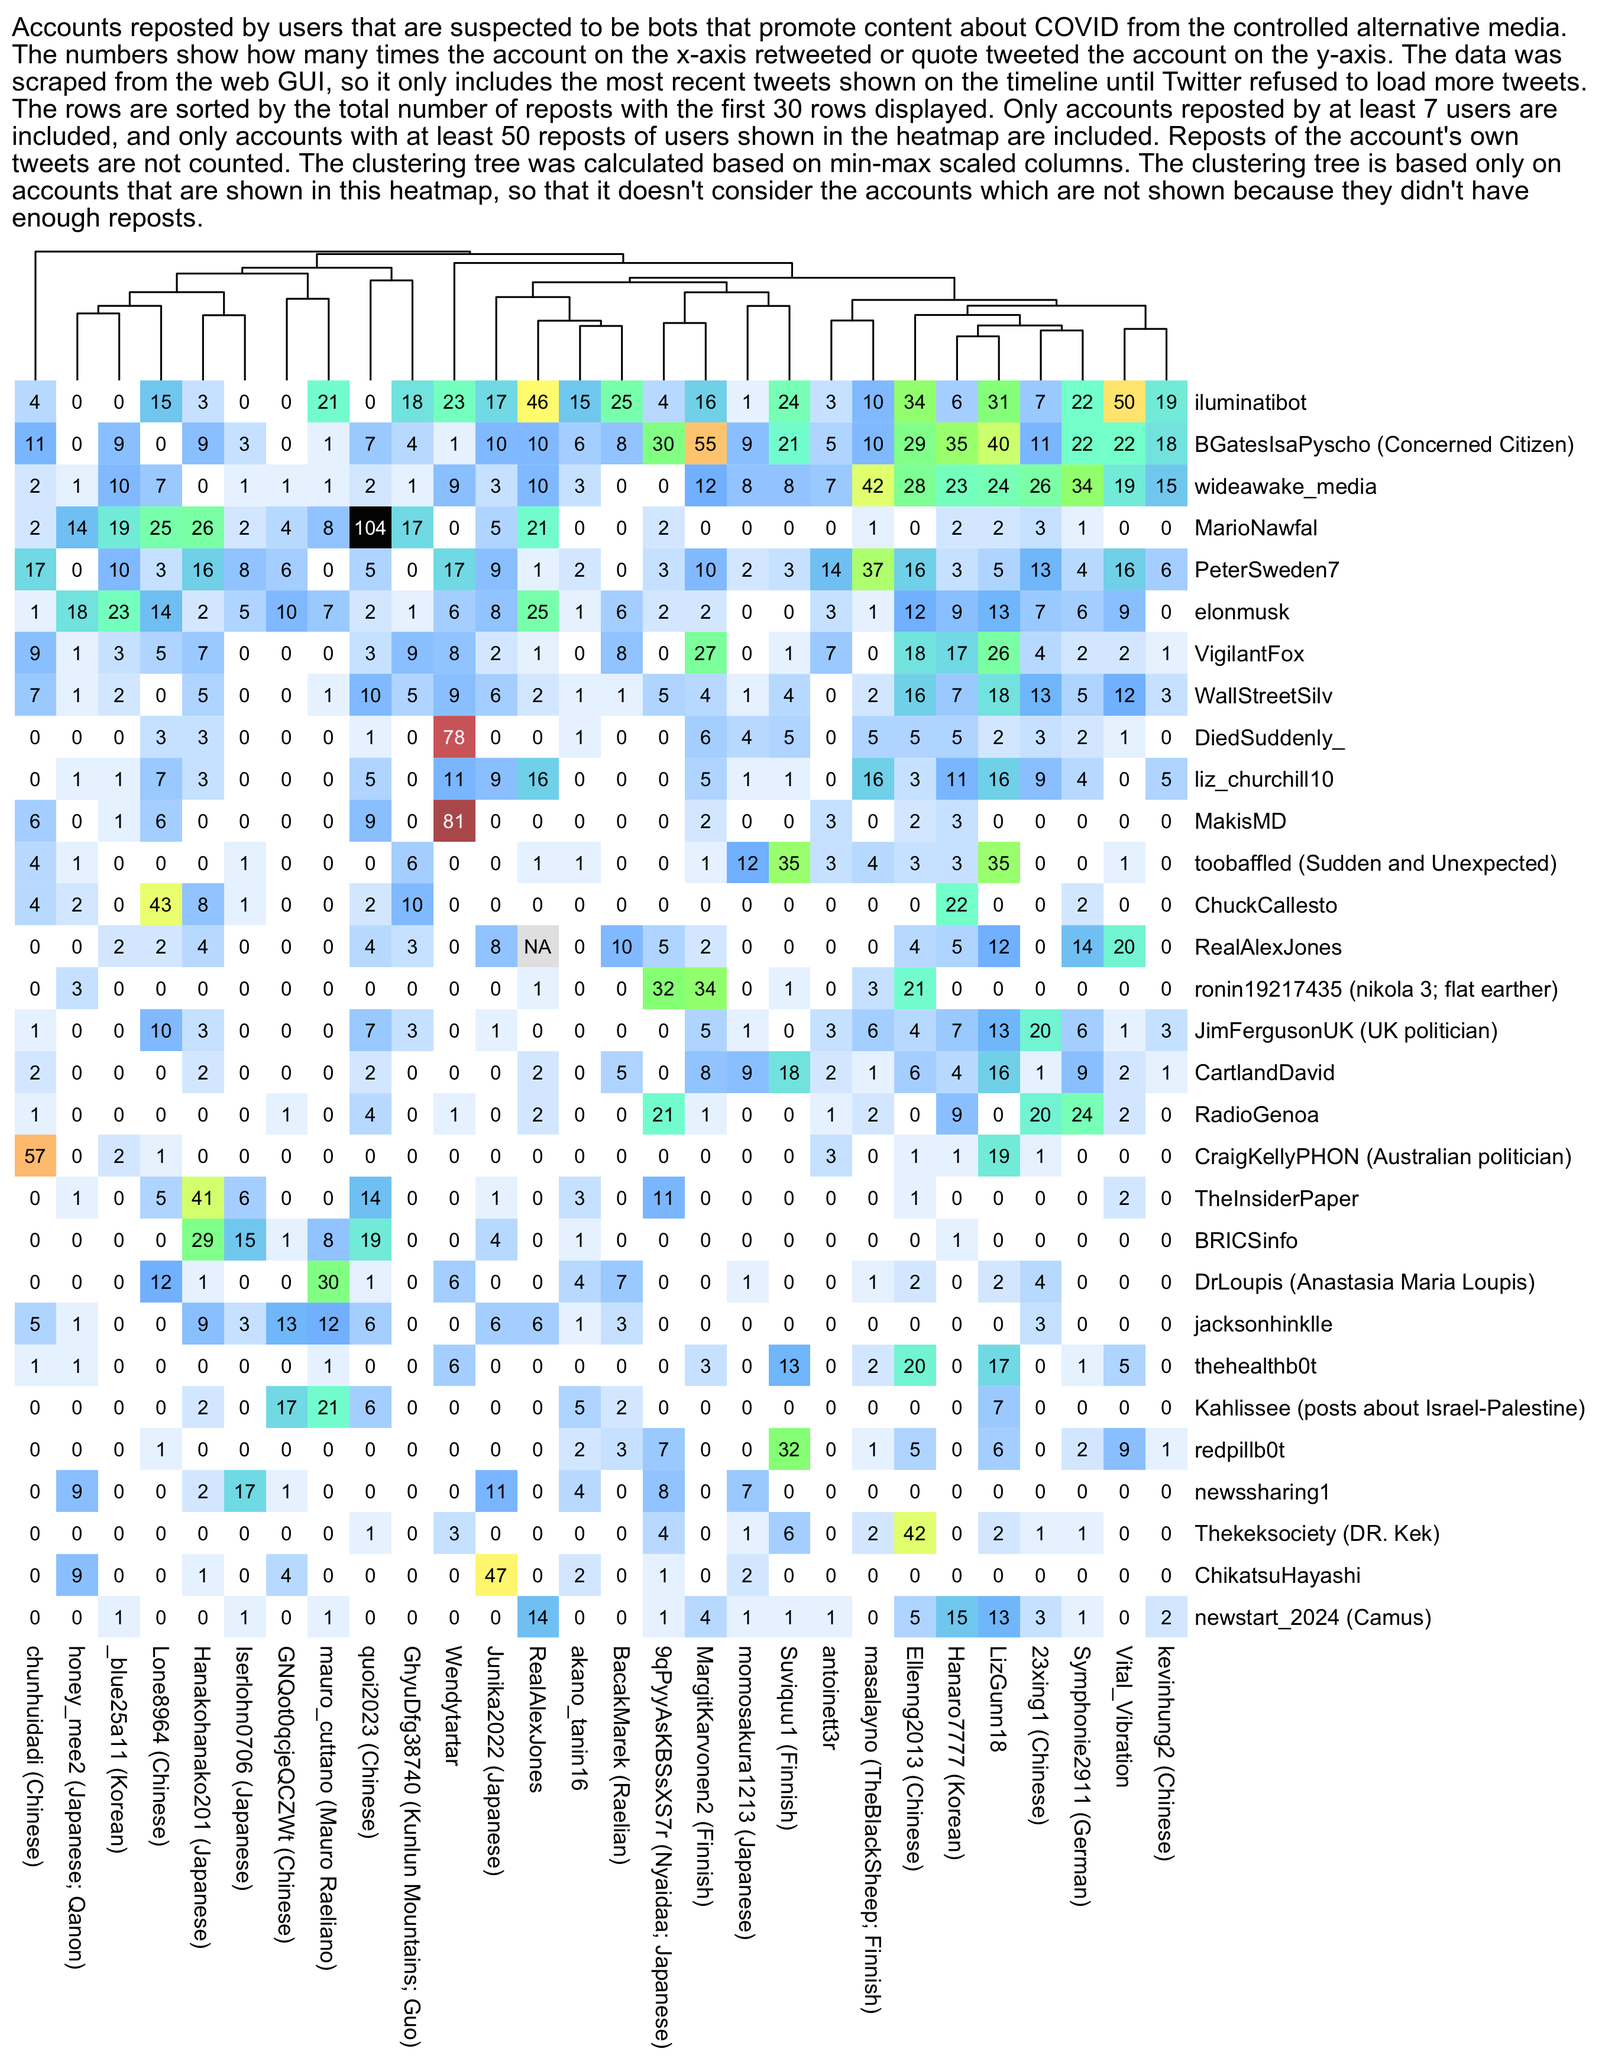
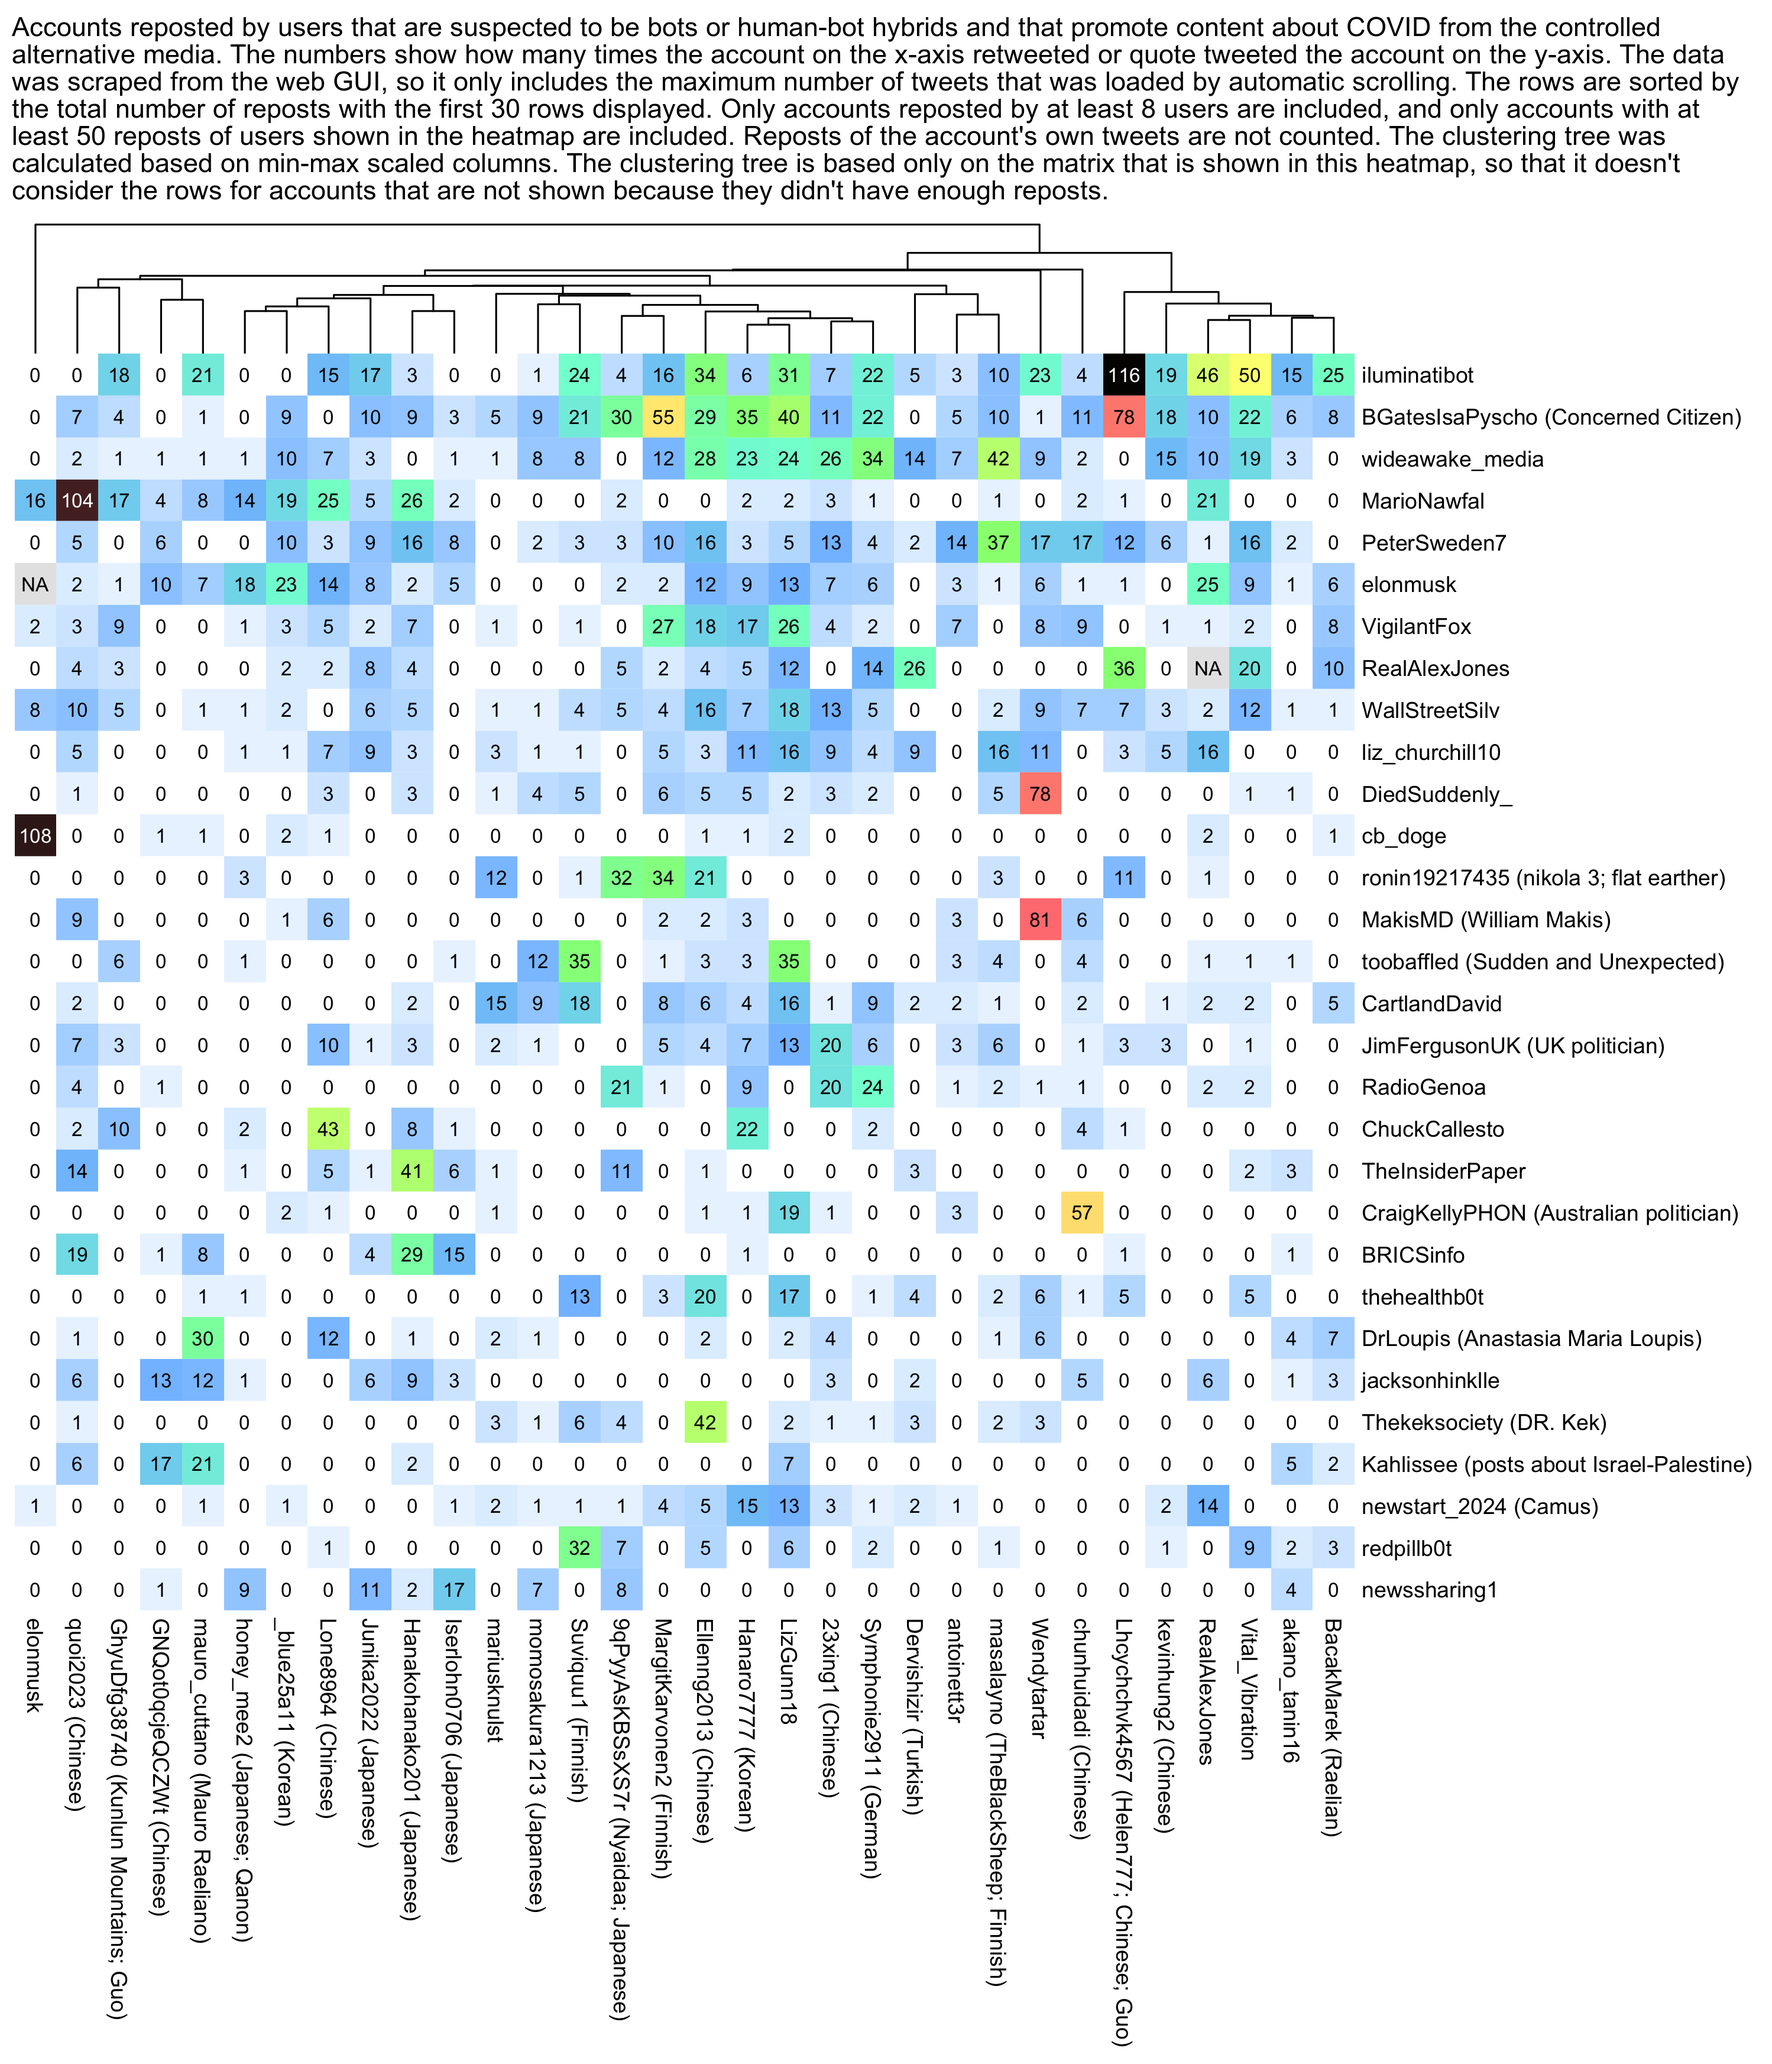
a

diff --git a/bot2.html b/bot2.html
@@ -75,6 +75,7 @@ th{background:#3a3a3a;text-align:left;font-weight:bold}
 <li><a href=#Scraping_recent_reposts_through_the_browser_with_AppleScript>Scraping recent reposts through the browser with AppleScript</a></li>
 <li><a href=#Heatmap_of_accounts_reposted_by_bots>Heatmap of accounts reposted by bots</a></li>
 <li><a href=#Video_of_tanks_posted_by_Jack_Straw>Video of tanks posted by Jack Straw</a></li>
+<li><a href=#Users_Elon_Musk_replied_to_or_reposted>Users Elon Musk replied to or reposted</a></li>
 </ul>
 
 <h2>
@@ -413,18 +414,48 @@ th{background:#3a3a3a;text-align:left;font-weight:bold}
 <div class="width15">
 <img src="i/bot-gates-3.jpg">
 </div>
-<p>The video by Wide Awake Media was also quoted by Alex Jones, who misspelled Josef Mengele's name as <span class="quote">&quot;Joseph Minga&quot;</span>. When I searched for <code>&quot;Joseph Minga&quot;</code>, I found that bots had quoted his tweet and translated it to German, Spanish, French, Turkish, and Portuguese (but I found no bots which had copied the tweet when I searched for <code>bill gates mengele</code>):</p>
+<p>The video by Wide Awake Media was also quoted by Alex Jones, who misspelled Josef Mengele's name as <span class="quote">&quot;Joseph Minga&quot;</span>. When I searched for <code>&quot;Joseph Minga&quot;</code>, I found 15 accounts which had posted a translation of Alex's tweet in various languages: Chinese (<a href=https://x.com/Lhcychchvk4567/status/1786836150239236501>Lhcychchvk4567</a>), French (<a href=https://x.com/Leetchi7/status/1786970544606212464>Leetchi7</a>, <a href=https://x.com/amaddama88/status/1786850508419772475>amaddama88</a>, <a href=https://x.com/phantoma_s/status/1786829840613556253>phantoma_s</a>) German (<a href=https://x.com/kleopatra2009/status/1787236491774611918>kleopatra2009</a>, <a href=https://x.com/Symphonie2911/status/1786822779074949421>Symphonie2911</a>), Italian (<a href=https://x.com/CarloDiMaio_63/status/1787037961931931928>CarloDiMaio_63</a>), Portuguese (<a href=https://x.com/HarpiaLivre/status/1786885762136371616>HarpiaLivre</a>, <a href=https://x.com/Heroi_Romanesco/status/1786841204828655934>Heroi_Romanesco</a>, <a href=https://x.com/LGAFBr/status/1786952920417661169>LGAFBr</a>, <a href=https://x.com/abs_hel/status/1786957148573806773>abs_hel</a>, <a href=https://x.com/paulajohanna77/status/1786894005608866162>paulajohanna77</a>, Spanish (<a href=https://x.com/elorwelliano/status/1786940352949113168>elorwelliano</a>), or Turkish <a href=https://x.com/Dervishizir/status/1786884950559494306>Dervishizir</a>:</p>
 <div class="width15">
 <img src="i/bot-gates-4.jpg">
 </div>
-<p>About 30% of the latest tweets by the German bot were reposts of tweets by English-language accounts, but the majority of them were reposts of RadioGenoa, Jim Ferguson, Wide Awake Media, illuminatibot, End Wokeness, Oli London, Alex Jones, or Wall Street Silver:</p>
+<p>When I looked up the other account which had posted a German translation of the tweet, about 30% of its latest tweets were reposts of tweets by English-language accounts, but the majority of them were reposts of RadioGenoa, Jim Ferguson, Wide Awake Media, illuminatibot, End Wokeness, Oli London, Alex Jones, or Wall Street Silver:</p>
 <div class="width15">
 <img src="i/bot-gates-5.jpg">
 </div>
-<p>The followers of the German bot included many different fake Elon Musk accounts:</p>
-<div class="width3">
+<p>The account which had posted a Chinese translation of the tweet by Alex Jones was a Miles Guo bot called <a href=https://x.com/Lhcychchvk4567/>Helen777</a>. Its three latest tweets were quote tweets of illuminatibot, thehealthb0t, and nikola 3 (and the tweet by nikola 3 was about flat earth):</p>
+<div class="width5">
 <img src="i/bot-gates-6.jpg">
 </div>
+<p>Its 7th-newest tweet was a video by Miles Guo that was posted by Concerned Citizen:</p>
+<div class="width5">
+<img src="i/bot-gates-7.jpg">
+</div>
+<p>When I scrolled through the timeline of the bot and counted how many times it had retweeted or quote tweeted each user, most of the accounts with 5 or more retweets were Guo bots (or some may have been non-bot accounts that promoted Guo), but the two highest-ranking users were illuminatibot and Concerned Citizen:</p>
+<pre>116 iluminatibot
+78 BGatesIsaPyscho
+43 graniteofstone (Guo)
+36 RealAlexJones
+31 BYDJ777 (Guo)
+25 S1lzF6u0WSo0BzD (Guo)
+21 guo_free (Guo)
+17 June4th89 (Guo)
+16 zhouxiaoping85 (Guo)
+16 0ccultbot
+13 sophiadahl1 (portrayed as Norwegian lady whose banner image says that the virus does not exist)
+12 ivaniosef22 (Guo)
+12 PeterSweden7
+11 wenfeng2020 (Guo)
+11 ronin19217435
+11 panguqianxun (Guo)
+11 mariusknulst (supposed to be another account of the Norwegian lady called Sophia)
+9 wenbei2022 (Guo)
+9 Q_May_007 (Guo)
+8 peace86774949 (Guo)
+7 WallStreetSilv
+7 O1xNs (Guo)
+6 weichuanyufu (Guo)
+5 thehealthb0t
+5 edisoncomeon (non-Guo Chinese account)</pre>
 <h2>
 <a href=#Alex_Jones id=Alex_Jones>Alex Jones</a>
 </h2>
@@ -1008,8 +1039,8 @@ while :;do x=$(bjs document.body.innerHTML|tr -d \\n);trt&lt;&lt;&lt;&quot;$x&qu
 4 historyinmemes
 4 gunsnrosesgirl3
 4 CollinRugg</pre>
-<p>On the list above I added an asterisk after the usual suspects I have mentioned on this page because they seem to be disproportionately reposted by bots. Out of the accounts on the list above, for example Elon Musk, Tucker Carlson, and David Icke are often also reposted by bots, but they are such popular people that they don't stand out as much as people like Liz Churchill, who few people would probably know about if she wasn't being artificially boosted on Twitter.</p>
-<p>Next I looked at retweets by the Chinese bot <a href=https://x.com/Ellenng2013>Ellenng2013</a> (Trust God!), because it's one of the accounts which posts the largest percentage of retweets by the usual suspects I have mentioned on this page. It had retweeted these accounts at least 4 times up to the point when Twitter stopped loading new tweets:</p>
+<p>On the list above I added an asterisk after the usual suspects I have mentioned on this page because they seem to be disproportionately reposted by bots. Out of the accounts on the list above, for example Elon Musk, Tucker Carlson, and David Icke are often also reposted by bots, but they are such well-known people that they don't stand out as much as people like Liz Churchill, who few people would probably know about if she wasn't being artificially boosted on Twitter.</p>
+<p>Next I looked at retweets by the Chinese bot <a href=https://x.com/Ellenng2013>Ellenng2013</a>, because it's one of the accounts which posts the largest percentage of retweets by the usual suspects I have mentioned on this page. It had retweeted these accounts at least 4 times up to the point when Twitter stopped loading new tweets:</p>
 <pre>42 Thekeksociety *
 35 PapiTrumpo
 34 iluminatibot *
@@ -1044,7 +1075,7 @@ while :;do x=$(bjs document.body.innerHTML|tr -d \\n);trt&lt;&lt;&lt;&quot;$x&qu
 4 DrAseemMalhotra *</pre>
 <p>A total of 264 out of 427 reposts on the list above were by the usual suspects, which have an asterisk after their name.</p>
 <p>On the list above <a href=https://x.com/vegastarr>vegastarr</a> ranks 4th. I should probably add it to my list of usual suspects, because it's also reposted by many other bot accounts, and it seems to follow a fairly similar formula as accounts that post about occult topics like illuminatibot and accounts that post about junk conspiracy topics like DR. Kek.</p>
-<p>The Finnish bot Suviquu had reposted these non-Finnish accounts at least 6 times:</p>
+<p>The Finnish bot <a href=https://x.com/Suviquu1>Suviquu1</a> had reposted these non-Finnish accounts at least 6 times:</p>
 <pre>35 toobaffled (Sudden and Unexpected)
 32 redpillb0t *
 24 iluminatibot *
@@ -1231,6 +1262,43 @@ system(paste0(&quot;f=0.png;mar=40;w=`identify -format %w $f`;convert -gravity n
 <div class="width5">
 <img src="i/bot-jacktank-4.jpg">
 </div>
+<h2>
+<a href=#Users_Elon_Musk_replied_to_or_reposted id=Users_Elon_Musk_replied_to_or_reposted>Users Elon Musk replied to or reposted</a>
+</h2>
+<p>I used code like this to scroll through Elon Musk's tweets with replies and to count how many times each user was mentioned. It includes replies and retweets but not quote tweets:</p>
+<pre>bjs()(osascript -e&#39;on run{a}&#39; -e&#39;tell app&quot;brave browser&quot;to tell active tab of window 1 to execute javascript a&#39; -eend &quot;$1&quot;)
+ttt()(grep -o &#39;href=&quot;/[^/]*/status/[0-9]*&#39;|awk -F/ &#39;$2!=&quot;i&quot;{print$2,$4}&#39;)
+
+open https://x.com/elonmusk/with_replies -abrave\ browser
+while :;do bjs document.body.innerHTML|ttt;bjs &#39;window.scrollBy(0,(window.innerHeight))&#39;;done|awk &#39;!a[$2]++&#39;</pre>
+<p>During the past approximately 30 days, these were all accounts that were included at least 5 times:</p>
+<pre>108 cb_doge
+72 SpaceX
+16 MarioNawfal
+15 Tesla
+15 EndWokeness
+12 shellenberger
+12 Not_the_Bee
+10 GadSaad
+9 teslaownersSV
+9 Starlink
+8 WallStreetSilv
+8 SawyerMerritt
+8 CommunityNotes
+7 stillgray
+7 XNews
+7 XBusiness
+7 KanekoaTheGreat
+6 stclairashley
+6 elonmusk
+6 alx
+6 JohnStossel
+5 nypost
+5 neuralink
+5 imPenny2x
+5 fentasyl
+5 XData
+5 FoxNews</pre>
 <script>
 let q=document.querySelectorAll('a,code,pre')
 for(let i=0;e=q[i];i++)e.innerHTML=e.innerHTML.replace(/(\w{60,})/g,x=>x.replace(/./g,"$&<wbr>")).replace(/([\041-\045\047-\057\072\075\077-\100\133-\137\173-\176])/g,"$1<wbr>")
